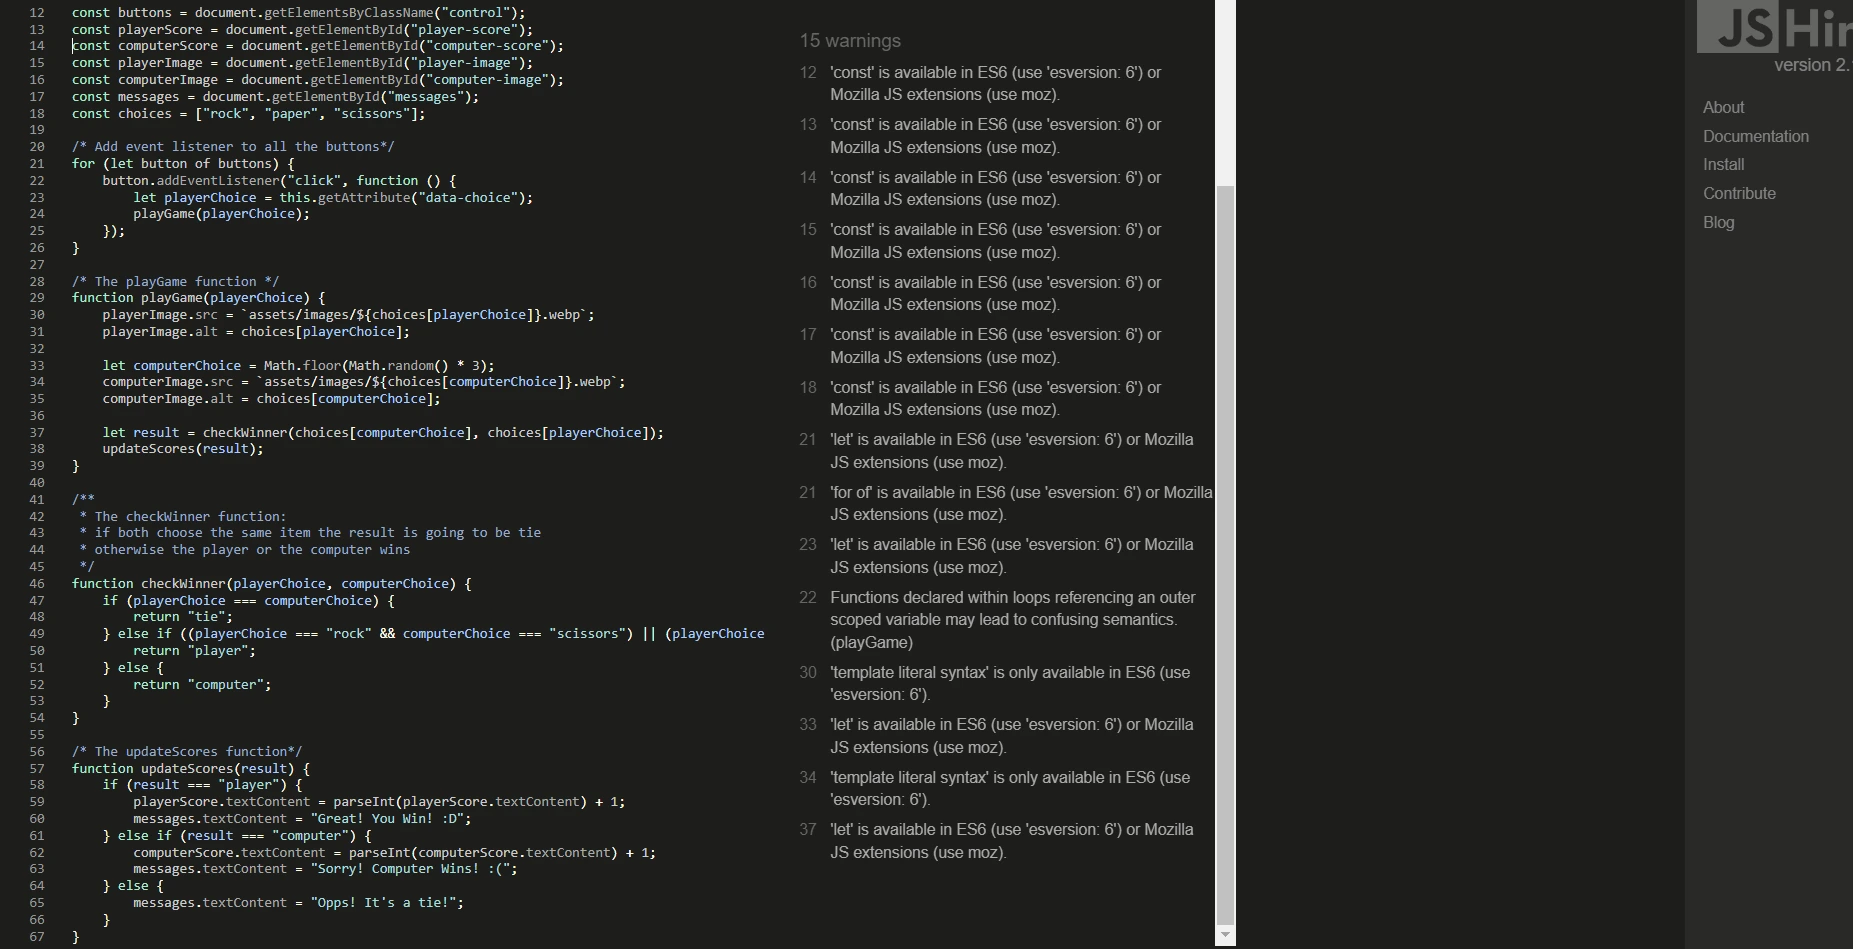
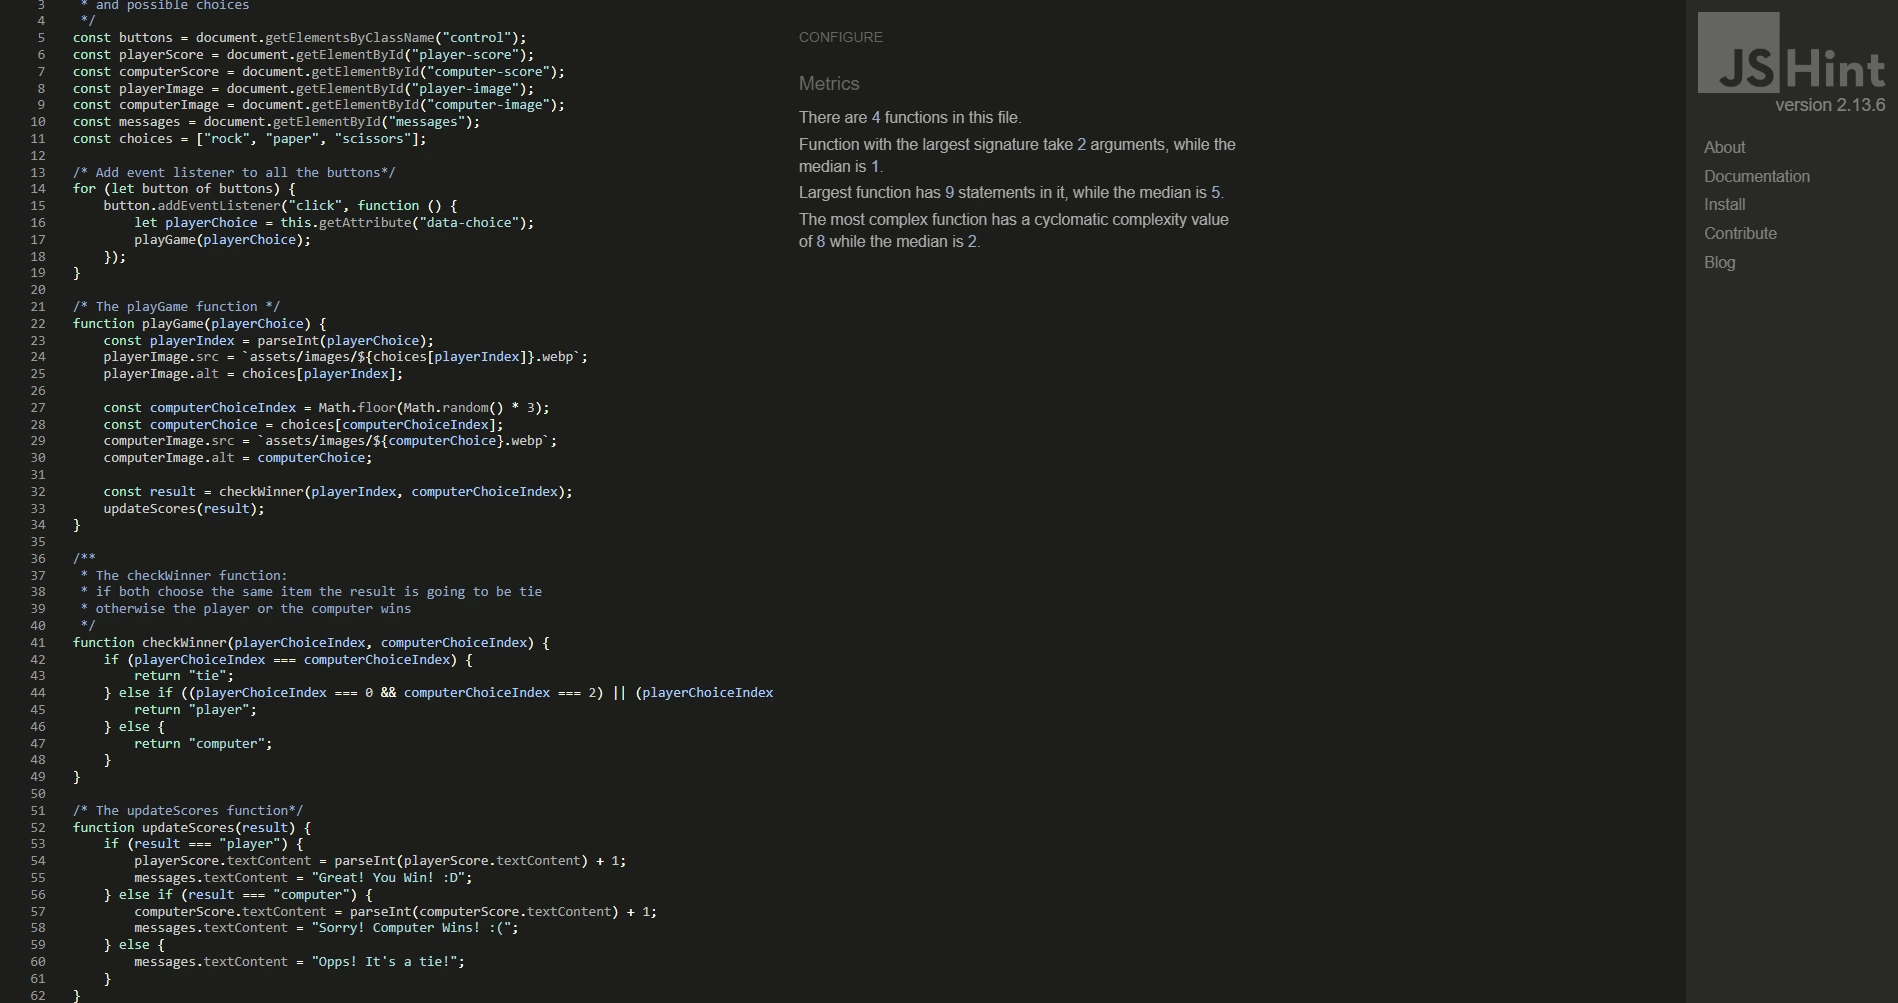
Replace the js-validator image and correct the JavaScript Validator section in Readme.md file

Changed region(s): [[0.0, 0.0, 0.4058, 1.0], [0.4058, 0.0, 0.6868, 1.0], [0.8741, 0.0, 1.0, 1.0]]

diff --git a/README.md b/README.md
@@ -126,7 +126,7 @@ The W3C validator was used to validate the HTML. It was also used to validate CS
 - No errors were found when passing through the official [CSS Validator](./assets/images/css-validator.webp)
 ### JSHint JavaScript Validator
 The JSHint JavaScript Validator was used to validate the JavaScript code.
-- No errors were returned when passing through the official [JSHint JavaScript Validator](./assets/images/js-validator.webp), but 15 warnings appeared, the vast majority of which indicate that I am using a keyword introduced in the ECMAScript 6 (ES6) version, and on one occasion that I am using a function inside a loop, which can be confusing. Despite all this, the game works perfectly.
+- No errors were returned when passing through the official [JSHint JavaScript Validator](./assets/images/js-validator.webp).
 ### Lighthouse
 I used Lighthouse within the Chrome Developer Tools to allow me to test the performance, accessibility, best practices and SEO of the website.
 #### Index page
